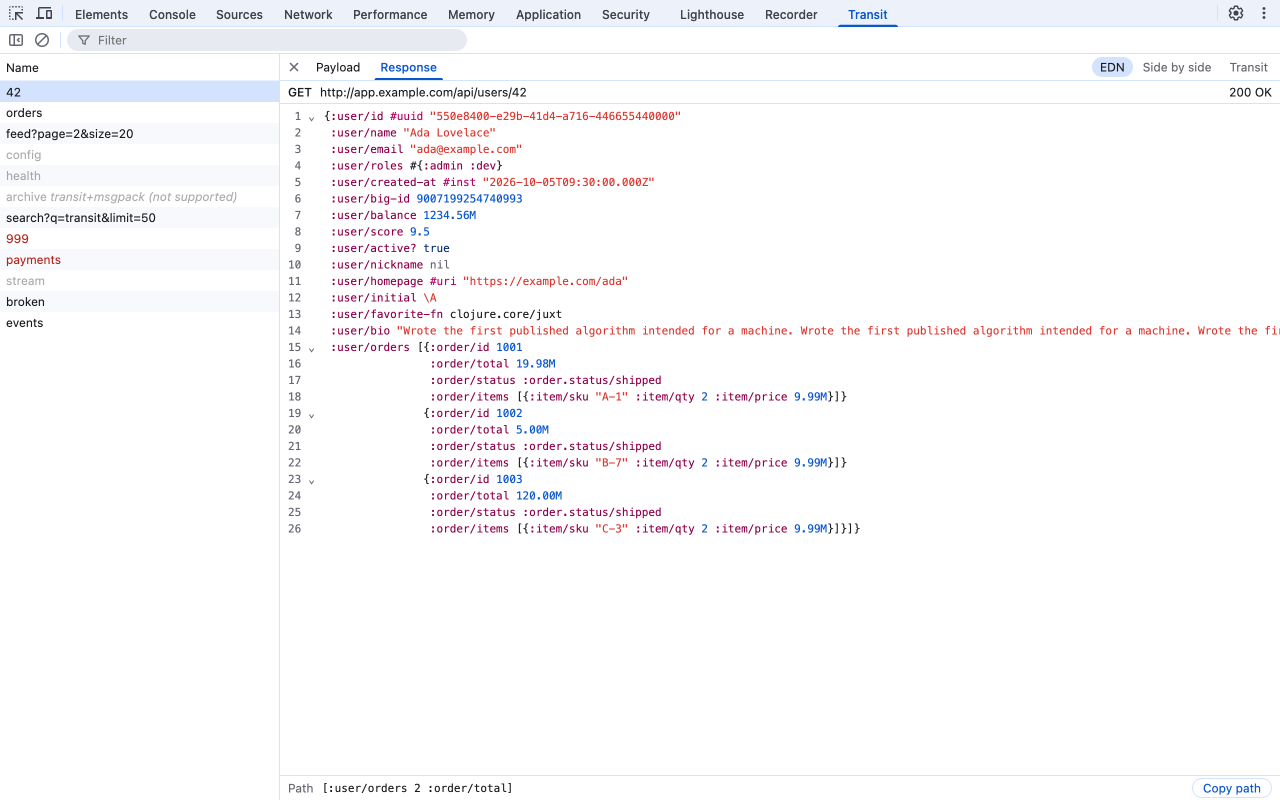
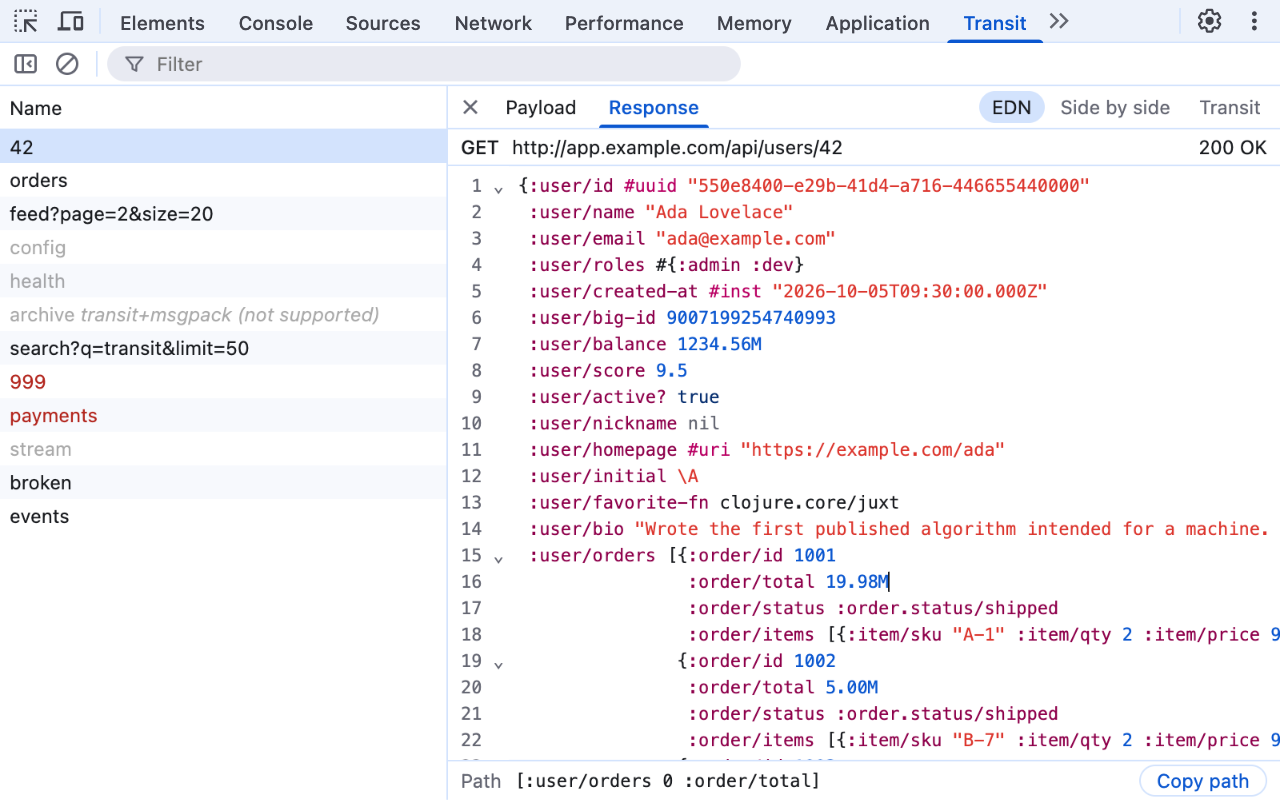
docs: zoom store screenshots, one feature each, and take the README one in real DevTools
The store screenshots were 1x captures of DevTools, unreadable in the store. They are now
zoomed 1.6x, and each of the five shows a different feature. The README screenshot comes
from the same script, in light and dark. The listing now mentions form selection, problem
underlines and what gets captured.

diff --git a/store/make-images.ts b/store/make-images.ts
@@ -9,9 +9,15 @@ import type { Page } from "puppeteer";
 import { launchWithExtension, MOD, openPageWithTransitPanel, type Panel, pressShortcut } from "../e2e/devtools.ts";
 
 const HOST = "app.example.com";
-// The Web Store takes screenshots of exactly 1280x800 (or 640x400).
-const WIDTH = 1280;
-const HEIGHT = 800;
+// The Web Store takes screenshots of exactly 1280x800 (or 640x400). At 1x, DevTools' 12px text is unreadable in the
+// store, so DevTools gets an 800x500 window that is captured zoomed to 1280x800. That needs a retina display:
+// the capture then downsamples real pixels instead of upscaling.
+const ZOOM = 1.6;
+const WIDTH = 1280 / ZOOM;
+const HEIGHT = 800 / ZOOM;
+const STORE = { width: WIDTH, height: HEIGHT, zoom: ZOOM };
+// The README screenshot, docs/screenshot-{light,dark}.png.
+const README = { width: 900, height: 300, zoom: 2 };
 
 const har: Har = JSON.parse(readFileSync(new URL("../samples/basic.har", import.meta.url), "utf8"));
 const calls = har.log.entries.filter((e) =>
@@ -84,29 +90,71 @@ try {
   // The sample's 404, 500 and failed requests log errors, which DevTools counts in a red badge at the top.
   await inspected.evaluate(() => console.clear());
   await sizeWindow(devtools, WIDTH, HEIGHT);
+  const dpr = await devtools.evaluate(() => devicePixelRatio);
+  const zoom = Math.max(STORE.zoom, README.zoom);
+  if (dpr < zoom) throw new Error(`Run this on a retina display: zooming ${zoom}x at devicePixelRatio ${dpr} blurs`);
 
-  // 1. EDN, with the cursor on a value and its path in the footer.
+  // Each screenshot shows a different feature.
+  // 1. EDN and the request list, with the cursor on a value and its path in the footer.
   await select(panel, "42");
   await setViewMode(panel, "EDN");
   await panel.evaluate(`document.querySelector(".cm-content").focus()`);
-  for (let i = 0; i < 23; i++) await devtools.keyboard.press("ArrowDown");
+  for (let i = 0; i < 15; i++) await devtools.keyboard.press("ArrowDown");
   await devtools.keyboard.press("End");
   await panel.waitFor<string>(`document.querySelector(".path-footer .path")?.textContent ?? ""`, (p) => p !== "");
   await shoot(devtools, "light", "screenshot-1-edn");
 
-  // 2. Side by side, on a response full of Transit's cache codes ("^0").
+  // 2. Side by side, on a response full of Transit's cache codes ("^0"), with the list hidden to make room.
   await select(panel, "feed?page=2&size=20");
   await setViewMode(panel, "Side by side");
+  await clickButton(panel, "Hide request list");
   await shoot(devtools, "dark", "screenshot-2-side-by-side");
+  await clickButton(panel, "Show request list");
+  await setViewMode(panel, "EDN");
 
-  // 3. Search.
+  // 3. A stack trace opened as plain text from its chip.
+  await select(panel, "payments");
+  await hover(devtools, panel, ".cm-string-chip");
+  await devtools.mouse.down();
+  await devtools.mouse.up();
+  await panel.waitFor<boolean>(`!!document.querySelector(".text-viewer .cm-content")`, Boolean);
+  await shoot(devtools, "light", "screenshot-3-string-text");
+  await clickButton(panel, "Close text");
+
+  // 4. A problem underlined, with its message on hover: an app-specific tag without a handler.
+  // The theme is set first: changing it closes the tooltip.
   await select(panel, "search?q=transit&limit=50");
+  await devtools.emulateMediaFeatures([{ name: "prefers-color-scheme", value: "dark" }]);
+  await hover(devtools, panel, ".cm-lintRange-warning");
+  await panel.waitFor<boolean>(`!!document.querySelector(".cm-tooltip-lint")`, Boolean);
+  await shoot(devtools, "dark", "screenshot-4-problems");
+  await devtools.mouse.move(0, 0);
+
+  // 5. Search.
+  await select(panel, "42");
   await panel.evaluate(`document.querySelector(".cm-content").focus()`);
   await pressShortcut(devtools, MOD, "f");
   await panel.waitFor<boolean>(`!!document.querySelector(".cm-search input[name=search]")`, Boolean);
-  await devtools.keyboard.type("search/");
+  await devtools.keyboard.type("order/");
   await devtools.keyboard.press("Enter");
-  await shoot(devtools, "light", "screenshot-3-search");
+  await shoot(devtools, "light", "screenshot-5-search");
+  await devtools.keyboard.press("Escape");
+
+  // The README's: EDN next to the raw Transit, with a path, in a window about as wide as GitHub shows it (so the
+  // text isn't shrunk), at 2x. The list is hidden to give both panes room. In both themes: the README picks the
+  // one matching the reader's. The search response is short enough for side by side and has the most Transit types.
+  await sizeWindow(devtools, README.width, README.height);
+  await select(panel, "search?q=transit&limit=50");
+  await setViewMode(panel, "Side by side");
+  await clickButton(panel, "Hide request list");
+  await panel.evaluate(`document.querySelector(".cm-content").focus()`);
+  for (let i = 0; i < 4; i++) await devtools.keyboard.press("ArrowDown");
+  await devtools.keyboard.press("End");
+  for (let i = 0; i < 3; i++) await devtools.keyboard.press("ArrowLeft");
+  await panel.waitFor<string>(`document.querySelector(".path-footer .path")?.textContent ?? ""`, (p) => p !== "");
+  for (const scheme of ["light", "dark"] as const) {
+    await shoot(devtools, scheme, new URL(`../docs/screenshot-${scheme}.png`, import.meta.url), README);
+  }
 
   await promoTile(await browser.newPage());
 } finally {
@@ -173,12 +221,43 @@ async function setViewMode(panel: Panel, label: string): Promise<void> {
   );
 }
 
-async function shoot(devtools: Page, scheme: "light" | "dark", name: string): Promise<void> {
+/** Clicks the panel's icon button labeled `label`. */
+async function clickButton(panel: Panel, label: string): Promise<void> {
+  await panel.evaluate(`document.querySelector(${JSON.stringify(`button[aria-label="${label}"]`)}).click()`);
+}
+
+/** Moves the real mouse over the middle of the panel element matching `selector`. */
+async function hover(devtools: Page, panel: Panel, selector: string): Promise<void> {
+  const frame = await devtools.evaluate(() => {
+    const find = (root: Document | ShadowRoot): HTMLIFrameElement | null => {
+      for (const el of root.querySelectorAll("iframe")) if (el.src.endsWith("/panel.html")) return el;
+      for (const el of root.querySelectorAll("*")) {
+        const found = el.shadowRoot && find(el.shadowRoot);
+        if (found) return found;
+      }
+      return null;
+    };
+    const { x, y } = find(document)?.getBoundingClientRect() ?? { x: 0, y: 0 };
+    return { x, y };
+  });
+  const box = await panel.evaluate<{ x: number; y: number; width: number; height: number }>(
+    `(({ x, y, width, height }) => ({ x, y, width, height }))(document.querySelector(${JSON.stringify(selector)}).getBoundingClientRect())`,
+  );
+  await devtools.mouse.move(frame.x + box.x + box.width / 2, frame.y + box.y + box.height / 2, { steps: 5 });
+}
+
+/** Saves the DevTools window, zoomed by `size.zoom`; `file` is a name in this folder or a URL. */
+async function shoot(
+  devtools: Page,
+  scheme: "light" | "dark",
+  file: string | URL,
+  { width, height, zoom } = STORE,
+): Promise<void> {
   await devtools.emulateMediaFeatures([{ name: "prefers-color-scheme", value: scheme }]);
   await new Promise((r) => setTimeout(r, 500));
-  const scale = 1 / (await devtools.evaluate(() => devicePixelRatio));
+  const scale = zoom / (await devtools.evaluate(() => devicePixelRatio));
   await devtools.screenshot({
-    path: new URL(`${name}.png`, import.meta.url).pathname,
-    clip: { x: 0, y: 0, width: WIDTH, height: HEIGHT, scale },
+    path: (typeof file === "string" ? new URL(`${file}.png`, import.meta.url) : file).pathname,
+    clip: { x: 0, y: 0, width, height, scale },
   });
 }

diff --git a/e2e/ui.e2e.ts b/e2e/ui.e2e.ts
@@ -35,7 +35,7 @@ afterAll(async () => {
 beforeEach(async () => {
   await page?.close();
   page = await browser.newPage();
-  // 2x like a Retina display, so screenshots show what users see (docs/screenshot.png comes from here).
+  // 2x like a Retina display, so screenshots show what users see.
   await page.setViewport({ width: 1300, height: 650, deviceScaleFactor: 2 });
   await page.goto(panelUrl);
   await page.evaluate(() => localStorage.clear());

diff --git a/store/listing.md b/store/listing.md
@@ -2,7 +2,7 @@
 
 What to enter in the [developer dashboard](https://chrome.google.com/webstore/devconsole), field by field. Keep it in sync with the README and `PRIVACY.md`: every claim here must stay true of the shipped extension (spec "Privacy").
 
-The images in this folder come from `npm run build && node store/make-images.ts` (screenshots from the real extension in real DevTools, plus the promo tile). Regenerate them on macOS, where the fonts match DevTools there, when the UI changes.
+The images in this folder come from `npm run build && node store/make-images.ts` (screenshots from the real extension in real DevTools, plus the promo tile). Regenerate them on macOS with a retina display, where the fonts match DevTools there, when the UI changes. The screenshots are zoomed 1.6x so their text is readable in the store, and each one shows a different feature.
 
 ## Package
 
@@ -13,7 +13,7 @@ Upload `transit-inspector-<version>.zip` from the GitHub Release. The store take
 - **Category:** Developer Tools
 - **Language:** English
 - **Store icon:** `icons/128.png`
-- **Screenshots** (1280x800), in this order: `screenshot-1-edn.png`, `screenshot-2-side-by-side.png`, `screenshot-3-search.png`
+- **Screenshots** (1280x800), in this order: `screenshot-1-edn.png`, `screenshot-2-side-by-side.png`, `screenshot-3-string-text.png`, `screenshot-4-problems.png`, `screenshot-5-search.png`
 - **Small promo tile** (440x280): `promo-tile.png`
 - **Homepage URL:** https://github.com/Tuxedo-Code/transit-inspector
 - **Support URL:** https://github.com/Tuxedo-Code/transit-inspector/issues
@@ -27,9 +27,13 @@ Transit is a format for sending data between applications, most often Clojure an
 
 • Requests carrying Transit are clickable; other Fetch/XHR requests are grayed out. Transit is detected by content type, or by sniffing bodies served as application/json.
 • EDN, Transit, or both side by side. Fold, select, copy and search (Cmd+F / Ctrl+F) like in an editor.
+• Double-click a bracket to select a whole map, vector, list or set; Cmd+I / Ctrl+I expands the selection to the enclosing form.
 • The footer shows the get-in path of the value at the cursor, with a "Copy path" button.
 • Show any string as plain text, with real line breaks instead of \n: handy for stack traces and SQL.
+• Problems such as malformed Transit, unknown tags or lost precision are underlined, with the message on hover.
 • Follows the DevTools light and dark theme. Observe only: it never changes requests.
+
+It sees requests made while DevTools is open, and decodes Transit JSON (transit+msgpack is listed but not decoded).
 
 Privacy: the extension makes no network requests of its own. No telemetry, analytics or third-party services, and its Content Security Policy blocks every connection from its pages. Captured traffic stays in DevTools' memory and is gone when you close DevTools; only the view mode and the request list's width are saved. It requests no permissions. Chrome still lists "Read and change all your data on all websites" for every DevTools extension, because DevTools extensions can run code in the page they inspect; Transit Inspector never does, and its build fails if that API appears in the code.
 

diff --git a/docs/tasks.md b/docs/tasks.md
@@ -225,7 +225,7 @@ Done when: all checks pass locally and in a Linux container that mirrors CI; the
 Notes:
 - Repo: github.com/Tuxedo-Code/transit-inspector. The first real CI run happens on the first push.
 - Linux e2e was verified in Docker (`node:24-bookworm`, amd64, `xvfb-run`, `--security-opt seccomp=unconfined` so Chrome's sandbox works), 3 runs in a row. It exposed a race: the page used to load after a fixed 1 s sleep, before DevTools recorded traffic. `e2e/devtools.ts` now uses `page.openDevTools()` and waits for the Transit tab first.
-- `docs/screenshot.png` is `e2e/screenshots/split-light.png` (2x). Refresh it by copying after `npm run test:e2e` when the UI changes.
+- The README screenshot (`docs/screenshot-{light,dark}.png`) now comes from `store/make-images.ts`, in real DevTools.
 - transit-js's Closure loader triggers rolldown `EVAL` warnings; `vite.config.ts` filters only those.
 
 ### [x] T16 Automated releases
@@ -380,6 +380,7 @@ From spec "Later". Not to be started until v1 is done:
   - Left, by the user: developer account ($5, 2-step verification; decide personal or Tuxedo-Code group publisher), then the first upload of the first release zip that has icons, filled in from `store/listing.md`.
   - Done when: the listing is live. Then add the store link to README "Install" (store first, zip as the alternative) and spec "Install", and move the CI upload job to its own task.
   - `make-images.ts` needs `--disable-features=HttpsUpgrades,HttpsFirstBalancedModeAutoEnable`: Chrome 154 blocks plain http to a public host name (`ERR_BLOCKED_BY_CLIENT`), even when `--host-resolver-rules` maps it to localhost.
+  - Screenshots are zoomed 1.6x (DevTools at 800x500) since 1x text was unreadable in the store. There are 5, one feature each: EDN with the path, side by side, a string as text, a lint tooltip, search. The lint tooltip closes when the theme changes, so set the theme before hovering. The string chip opens on mousedown, so use the real mouse rather than `.click()`.
 - [ ] Firefox support ("maybe"; see spec "Supported browsers"):
   - Check what Firefox's `devtools.network` HAR entries contain. If `_resourceType` is missing, find another way to tell Fetch/XHR apart, or list every request that carries Transit.
   - Check the panel, CodeMirror and the clipboard fallback in Firefox DevTools, in both themes.

diff --git a/docs/spec.md b/docs/spec.md
@@ -246,7 +246,7 @@ Users unzip the release zip and load it with "Load unpacked" (steps in the [READ
 - Settings required: "Allow GitHub Actions to create and approve pull requests" under Actions > General, first in the Tuxedo-Code organization settings (it overrides the repo), then in the repo. Without it, the `release` job can't open the release PR.
 - **Chrome Web Store:** the release zip has `manifest.json` at its root, a version Chrome accepts and the icons, so it is uploaded to the store as is.
   - `store/listing.md` holds every listing field and the privacy-practices answers; its claims must stay true, like those in `PRIVACY.md` and the README (see "Privacy").
-  - The screenshots and the promo tile in `store/` come from `node store/make-images.ts`: it replays `samples/basic.har` from a local server that Chrome reaches as `app.example.com`, and captures the real panel in an undocked DevTools window sized to the store's 1280x800. Run it on macOS after UI changes, since it renders with the system fonts.
+  - The screenshots and the promo tile in `store/` come from `node store/make-images.ts`: it replays `samples/basic.har` from a local server that Chrome reaches as `app.example.com`, and captures the real panel in an undocked 800x500 DevTools window, zoomed 1.6x to the store's 1280x800 so the text is readable. Each screenshot shows a different feature. The same run makes the README's screenshot, `docs/screenshot-{light,dark}.png`, at 2x in a window about as wide as GitHub shows it. Run it on a retina Mac after UI changes, since it renders with the system fonts and needs the extra pixels for the zoom.
   - Uploads are by hand in the developer dashboard for now (see "Later").
 
 ## Dependencies and supply chain

diff --git a/README.md b/README.md
@@ -4,7 +4,10 @@
 
 A **Transit** tab for Chrome and Brave DevTools, next to Network. It shows the page's [Transit](https://github.com/cognitect/transit-format) traffic decoded as readable [EDN](https://github.com/edn-format/edn), next to the raw Transit.
 
-![The Transit panel showing a response as EDN next to the raw Transit](docs/screenshot.png)
+<picture>
+  <source media="(prefers-color-scheme: dark)" srcset="docs/screenshot-dark.png">
+  <img src="docs/screenshot-light.png" alt="The Transit panel in DevTools showing a response as EDN next to the raw Transit">
+</picture>
 
 Transit packs keywords, sets, dates and non-string map keys into strings and arrays (`"~:user/id"`, `["^ ", ...]`), so the Network panel shows it as hard-to-read JSON. This panel shows the same data the way Clojure prints it.
 
